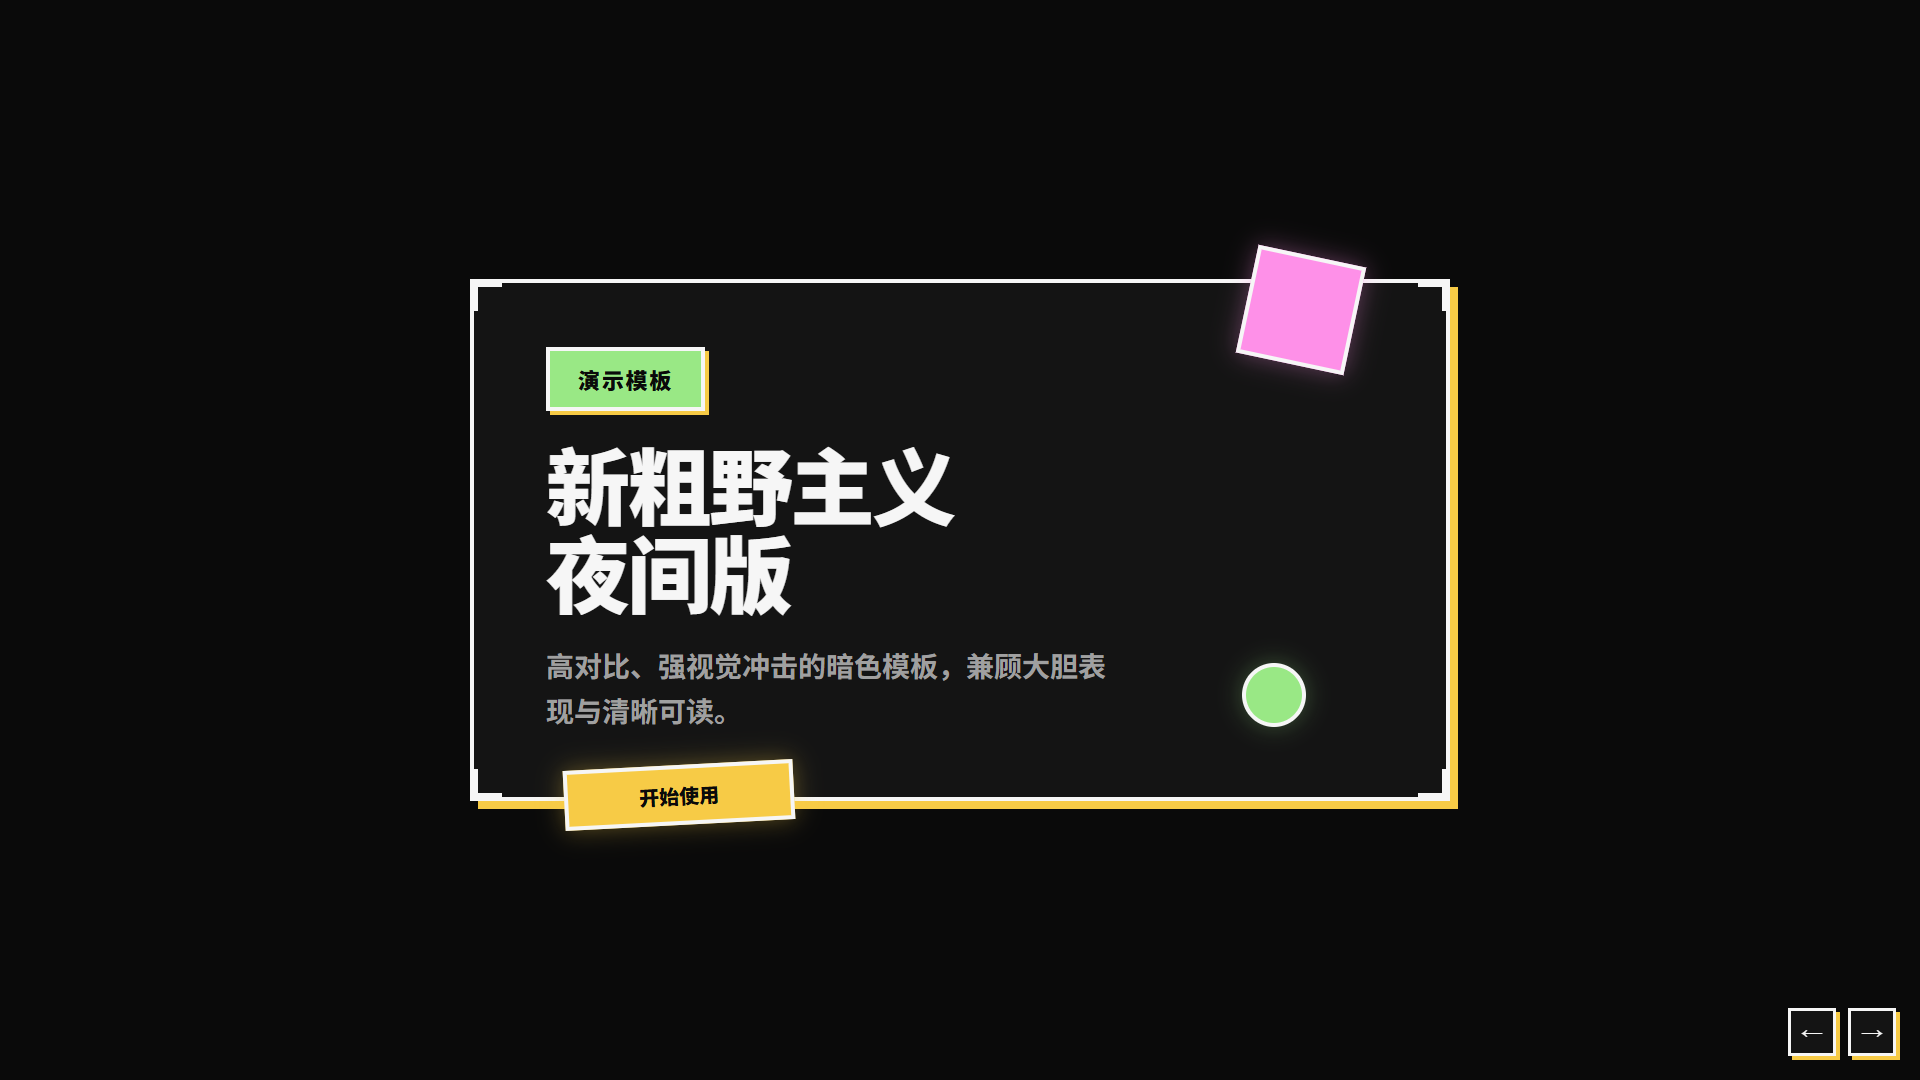
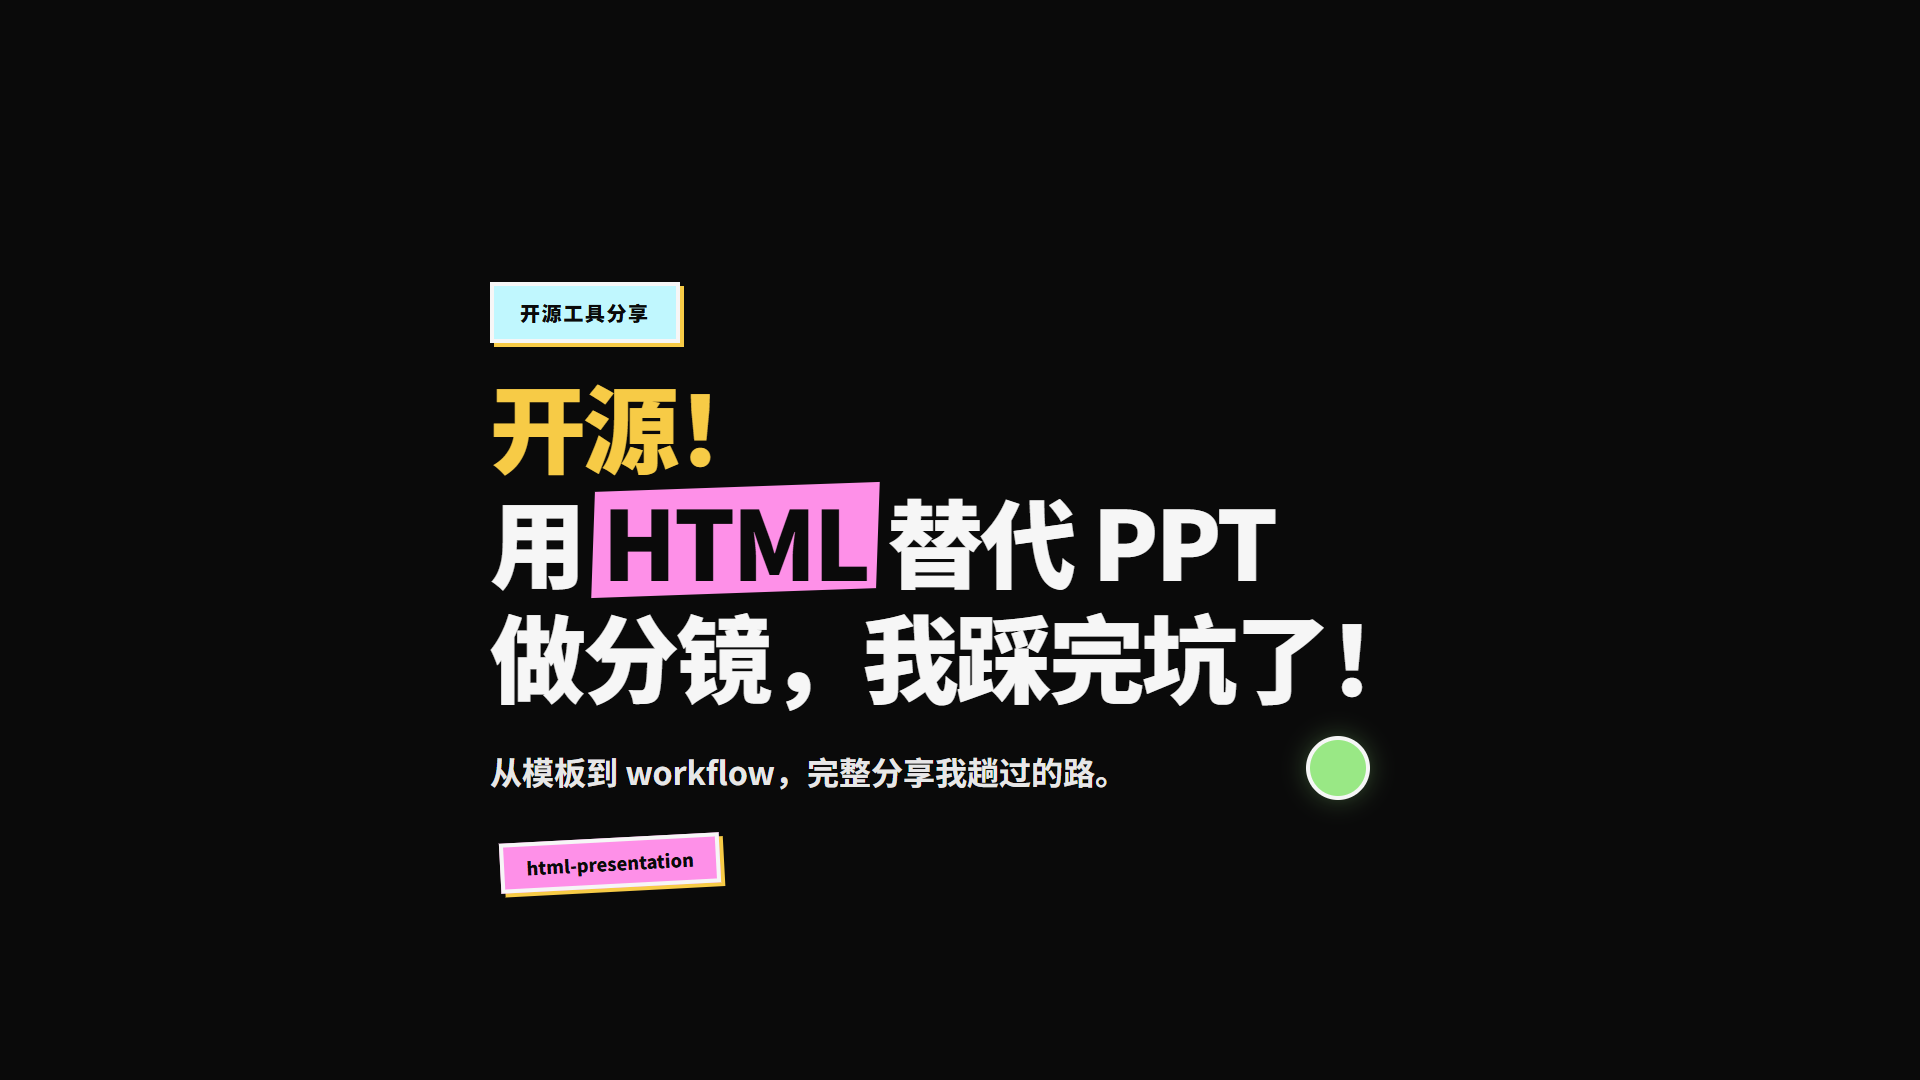
Add project cover slides to BlockFrame themes

Changed region(s): [[0.2188, 0.2139, 0.7812, 0.8556], [0.9375, 0.9167, 1.0, 1.0]]

diff --git a/themes/blockframe-dark/template.html b/themes/blockframe-dark/template.html
@@ -135,6 +135,97 @@
       box-shadow: var(--shadow-sm);
     }
 
+    /* PROJECT COVER: VIDEO STORYBOARD */
+    .slide-project-cover {
+      background: var(--black);
+      flex-direction: column;
+      justify-content: center;
+      align-items: center;
+    }
+    .slide-project-cover .project-cover-frame {
+      position: relative;
+      width: 100%;
+      max-width: 1100px;
+      background: var(--black);
+      padding: 72px 80px;
+      display: flex;
+      flex-direction: column;
+      gap: 32px;
+    }
+    .slide-project-cover .project-cover-label {
+      width: fit-content;
+      margin-bottom: 24px;
+      background: var(--blue);
+      color: var(--black);
+      font-size: 20px;
+      padding: 12px 26px;
+    }
+    .slide-project-cover .project-cover-title {
+      font-size: clamp(52px, 6vw, 96px);
+      line-height: 1.2;
+      color: var(--white);
+      text-transform: none;
+    }
+    .slide-project-cover .project-cover-title .text-yellow {
+      color: var(--yellow);
+    }
+    .slide-project-cover .project-cover-highlight {
+      position: relative;
+      display: inline-block;
+      z-index: 0;
+      background: transparent;
+      color: var(--black);
+    }
+    .slide-project-cover .project-cover-highlight::before {
+      content: "";
+      position: absolute;
+      top: 0.05em;
+      bottom: 0.05em;
+      left: -0.1em;
+      right: -0.1em;
+      background: var(--pink);
+      transform: rotate(-2deg) skewX(-4deg);
+      z-index: -1;
+    }
+    .slide-project-cover .project-cover-subtitle {
+      font-family: 'Space Grotesk', 'Noto Sans SC', monospace;
+      font-size: clamp(22px, 2vw, 32px);
+      font-weight: 600;
+      max-width: 800px;
+      line-height: 1.7;
+      color: rgba(255, 255, 255, 0.9);
+    }
+    .slide-project-cover .project-cover-circle {
+      position: absolute;
+      bottom: 70px;
+      right: 140px;
+      width: 64px;
+      height: 64px;
+      background: var(--green);
+      border: var(--border);
+      border-radius: 50%;
+      z-index: 5;
+      box-shadow: var(--glow-green);
+    }
+    .slide-project-cover .project-cover-badge {
+      position: absolute;
+      bottom: -18px;
+      left: 90px;
+      width: 220px;
+      height: 50px;
+      background: var(--pink);
+      border: var(--border);
+      box-shadow: var(--shadow-sm);
+      transform: rotate(-3deg);
+      display: flex;
+      align-items: center;
+      justify-content: center;
+      font-family: 'Space Grotesk', 'Noto Sans SC', monospace;
+      font-size: 18px;
+      font-weight: 800;
+      color: var(--black);
+      z-index: 5;
+    }
     /* SLIDE 1: Title Hero */
     .slide-1 {
       background: var(--black);
@@ -571,8 +662,20 @@
 
   <div class="slides-container">
 
-    <!-- SLIDE 1: Title Hero -->
-    <section class="slide slide-1 active">
+    <!-- SLIDE 1: Project Cover -->
+    <section class="slide slide-project-cover active">
+      <div class="project-cover-frame">
+        <div>
+          <div class="nb-label project-cover-label nb-label-blue">开源工具分享</div>
+          <h1 class="nb-heading-xl project-cover-title"><span class="text-yellow">开源！</span><br>用 <mark class="project-cover-highlight">HTML</mark> 替代 PPT<br>做分镜，我踩完坑了！</h1>
+        </div>
+        <p class="project-cover-subtitle">从模板到 workflow，完整分享我趟过的路。</p>
+        <div class="project-cover-circle"></div>
+        <div class="project-cover-badge">html-presentation</div>
+      </div>
+    </section>
+    <!-- SLIDE 2: Original Theme Cover -->
+    <section class="slide slide-1">
       <div class="hero-frame">
         <div class="corner-bracket tl"></div><div class="corner-bracket tr"></div>
         <div class="corner-bracket bl"></div><div class="corner-bracket br"></div>
@@ -585,7 +688,7 @@
       </div>
     </section>
 
-    <!-- SLIDE 2: Two Column Intro -->
+    <!-- SLIDE 3: Two Column Intro -->
     <section class="slide slide-2">
       <div class="col-left">
         <div class="nb-label nb-label-pink">章节一</div>
@@ -857,6 +960,7 @@
       if (e.key === 'ArrowRight') nextSlide();
       if (e.key === 'ArrowLeft') prevSlide();
     });
+    showSlide(currentSlide);
   </script>
 </body>
 </html>

diff --git a/themes/blockframe/template.html b/themes/blockframe/template.html
@@ -235,6 +235,77 @@
     .corner-bracket.bl { border-right: none; border-top: none; bottom: 0; left: 0; }
     .corner-bracket.br { border-left: none; border-top: none; bottom: 0; right: 0; }
 
+    /* ============ PROJECT COVER: VIDEO STORYBOARD ============ */
+    .slide-project-cover {
+      background: var(--offwhite);
+      flex-direction: column;
+      justify-content: center;
+      align-items: center;
+    }
+    .slide-project-cover .project-cover-frame {
+      position: relative;
+      width: 100%;
+      max-width: 1100px;
+      padding: 72px 80px;
+      display: flex;
+      flex-direction: column;
+      gap: 32px;
+    }
+    .slide-project-cover .project-cover-label {
+      width: fit-content;
+      margin-bottom: 24px;
+      background: var(--pink);
+      font-size: 20px;
+      padding: 12px 26px;
+    }
+    .slide-project-cover .project-cover-title {
+      font-size: clamp(56px, 6vw, 90px);
+      line-height: 1.2;
+      max-width: 90%;
+      text-transform: none;
+    }
+    .slide-project-cover .project-cover-highlight {
+      position: relative;
+      display: inline-block;
+      z-index: 0;
+      background: transparent;
+    }
+    .slide-project-cover .project-cover-highlight::before {
+      content: "";
+      position: absolute;
+      top: 0.22em;
+      bottom: 0.22em;
+      left: -0.05em;
+      right: -0.05em;
+      background: var(--cream);
+      transform: rotate(-2deg) skewX(-4deg);
+      z-index: -1;
+    }
+    .slide-project-cover .project-cover-subtitle {
+      font-family: 'Space Grotesk', 'Noto Sans SC', monospace;
+      font-size: clamp(22px, 2vw, 32px);
+      font-weight: 600;
+      max-width: 800px;
+      line-height: 1.7;
+    }
+    .slide-project-cover .project-cover-badge {
+      position: absolute;
+      bottom: -22px;
+      left: 90px;
+      width: 220px;
+      height: 50px;
+      background: var(--blue);
+      border: 4px solid var(--black);
+      box-shadow: var(--shadow-sm);
+      transform: rotate(-3deg);
+      display: flex;
+      align-items: center;
+      justify-content: center;
+      font-family: 'Space Grotesk', 'Noto Sans SC', monospace;
+      font-size: 18px;
+      font-weight: 800;
+      z-index: 5;
+    }
     /* ============ SLIDE 1: TITLE HERO ============ */
     .slide-1 {
       flex-direction: column;
@@ -1083,8 +1154,19 @@
 
   <div class="slides-container">
 
-    <!-- SLIDE 1: Title Hero -->
-    <section class="slide slide-1 active">
+    <!-- SLIDE 1: Project Cover -->
+    <section class="slide slide-project-cover active">
+      <div class="project-cover-frame">
+        <div>
+          <div class="nb-label project-cover-label">开源工具分享</div>
+          <h1 class="nb-heading-xl project-cover-title">开源！<br>用 <mark class="project-cover-highlight">HTML</mark> 替代 PPT<br>做分镜，我踩完坑了！</h1>
+        </div>
+        <p class="project-cover-subtitle">直接生成高清视频分镜图，还能一键导出 PNG。</p>
+        <div class="project-cover-badge">html-presentation</div>
+      </div>
+    </section>
+    <!-- SLIDE 2: Original Theme Cover -->
+    <section class="slide slide-1">
       <div class="hero-frame">
         <div class="corner-bracket tl"></div>
         <div class="corner-bracket tr"></div>
@@ -1099,7 +1181,7 @@
       </div>
     </section>
 
-    <!-- SLIDE 2: Two Column Intro -->
+    <!-- SLIDE 3: Two Column Intro -->
     <section class="slide slide-2">
       <div class="col-left">
         <div class="nb-label nb-label-yellow">概览</div>